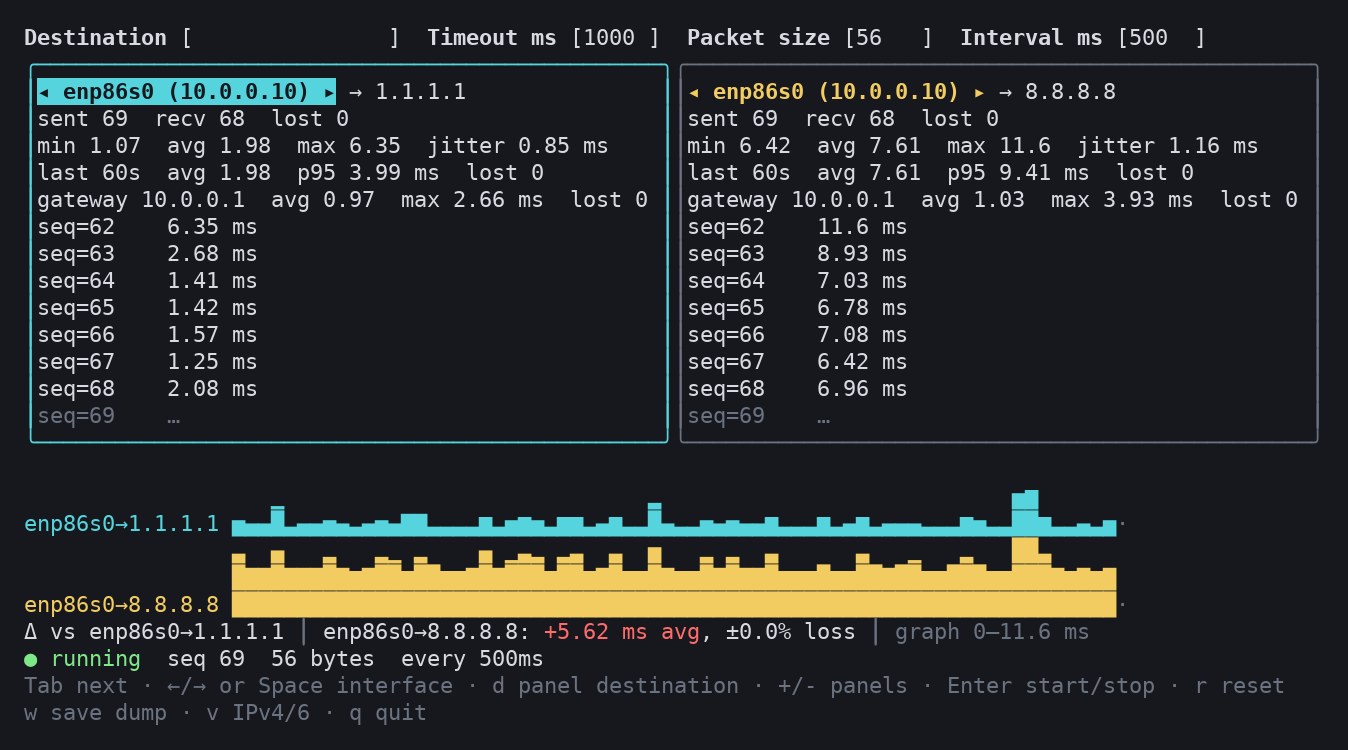
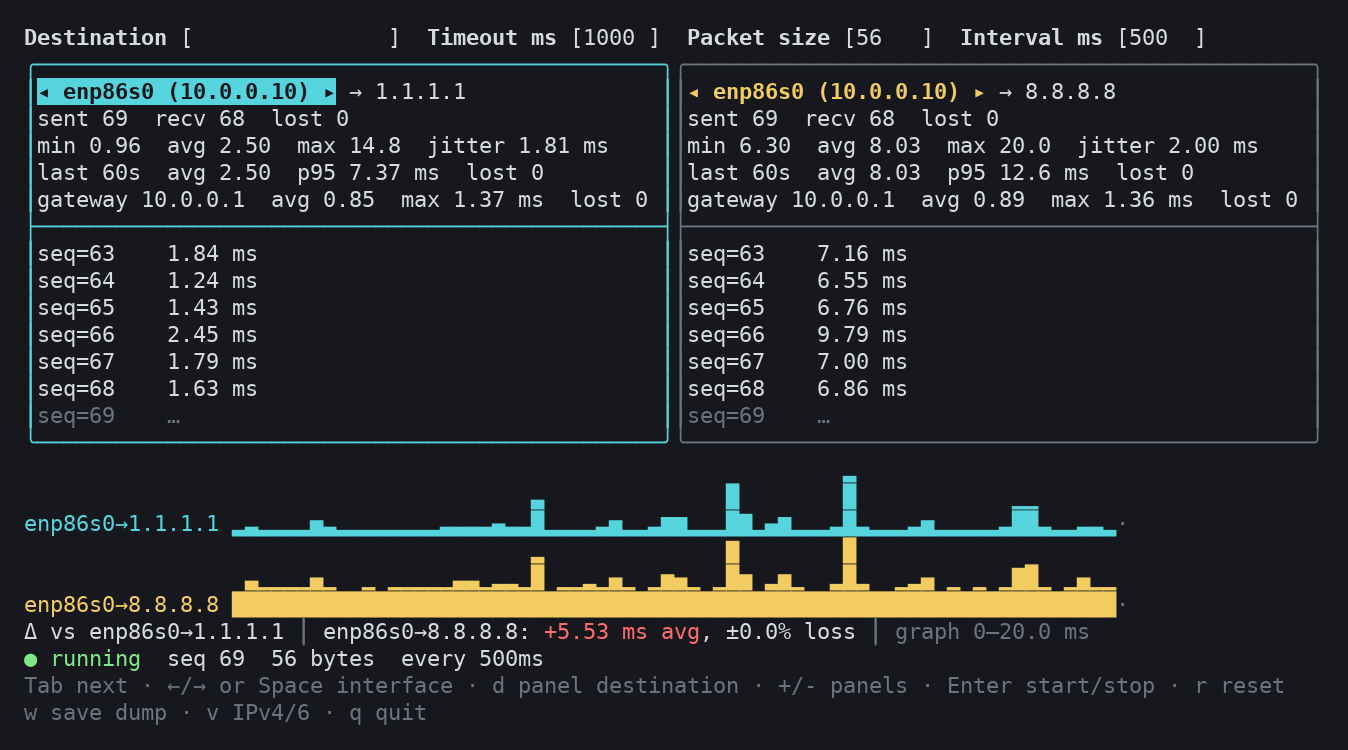
Part a panel's statistics from its log with a rule
The fixed statistics lines ran straight into the scrolling log, with
nothing to show where one ends and the other begins.

Draw a rule between them as part of the panel's frame, joined to both
sides and in the frame's colour. It is left out when there is no room
for a log line under it, and while the interface list is open.

diff --git a/tui.go b/tui.go
@@ -981,10 +981,17 @@ func (m *model) viewPanel(i, w, h int) string {
 	}
 
 	var lines []string
+	// ruleAt is the line that parts the fixed statistics from the scrolling
+	// log, or -1 when there is no log to part them from.
+	ruleAt := -1
 	if m.menu == i {
 		lines = append([]string{title}, m.viewMenu(innerH-1, m.v6(p))...)
 	} else {
 		lines = append([]string{title}, p.viewStats(m)...)
+		if innerH-len(lines) >= 2 {
+			ruleAt = len(lines)
+			lines = append(lines, "")
+		}
 		rows := p.rows
 		if logH := max(innerH-len(lines), 0); len(rows) > logH {
 			rows = rows[len(rows)-logH:]
@@ -1011,7 +1018,15 @@ func (m *model) viewPanel(i, w, h int) string {
 	if focused {
 		border = borderFocus
 	}
-	return border.Width(innerW).Height(innerH).Render(strings.Join(lines, "\n"))
+	box := border.Width(innerW).Height(innerH).Render(strings.Join(lines, "\n"))
+	if ruleAt < 0 {
+		return box
+	}
+	// Draw the rule as part of the frame, joined to both sides.
+	boxLines := strings.Split(box, "\n")
+	boxLines[ruleAt+1] = lipgloss.NewStyle().Foreground(border.GetBorderTopForeground()).
+		Render("├" + strings.Repeat("─", innerW) + "┤")
+	return strings.Join(boxLines, "\n")
 }
 
 // viewStats renders the fixed lines between a panel's title and its log.

diff --git a/tui_test.go b/tui_test.go
@@ -662,3 +662,32 @@ func TestGraphHeight(t *testing.T) {
 		}
 	}
 }
+
+func TestPanelRule(t *testing.T) {
+	m := testModel()
+	m.dst, m.running = net.IPv4(8, 8, 8, 8), true
+	for seq := 1; seq <= 5; seq++ {
+		m.panels[0].send(seq, time.Now())
+		m.panels[0].result(seq, 10*time.Millisecond, nil)
+	}
+	rule := "├" + strings.Repeat("─", 38) + "┤"
+
+	// The rule sits between the statistics and the log, joined to the frame.
+	lines := strings.Split(m.viewPanel(0, 40, 12), "\n")
+	if len(lines) != 12 || lines[6] != rule {
+		t.Fatalf("panel:\n%s", strings.Join(lines, "\n"))
+	}
+	if !strings.Contains(lines[5], "gateway") || !strings.Contains(lines[7], "seq=2") || !strings.Contains(lines[10], "seq=5") {
+		t.Errorf("rule not between statistics and log:\n%s", strings.Join(lines, "\n"))
+	}
+
+	// No rule without room for a log line under it, nor over the interface list.
+	if box := m.viewPanel(0, 40, 8); strings.Contains(box, "├") || lipgloss.Height(box) != 8 {
+		t.Errorf("short panel:\n%s", box)
+	}
+	m.focus = numFields
+	key(m, " ")
+	if box := m.viewPanel(0, 40, 12); strings.Contains(box, "├") {
+		t.Errorf("rule over the open list:\n%s", box)
+	}
+}

diff --git a/README.md b/README.md
@@ -85,9 +85,12 @@ sent 50  recv 42  lost 7 (14.3%)                  all-time counts
 min 2.00  avg 49.0  max 96.0  jitter 2.29 ms      all-time round-trip times
 last 60s  avg 49.0  p95 92.0 ms  lost 7 (14.3%)   the last minute only
 gateway 192.168.1.1  avg 1.20  max 3.10 ms  lost 0
+──────────────────────────────────────────────    above: totals; below: the log
 seq=48    96.0 ms
 ```
 
+- The lines above the rule stay in place; the log under it scrolls, newest
+  probe at the bottom.
 - The address after `→` in a panel's title is what that panel pings: the
   shared Destination unless the panel was given its own.
 - The line under the graph compares every panel with the leftmost one.
